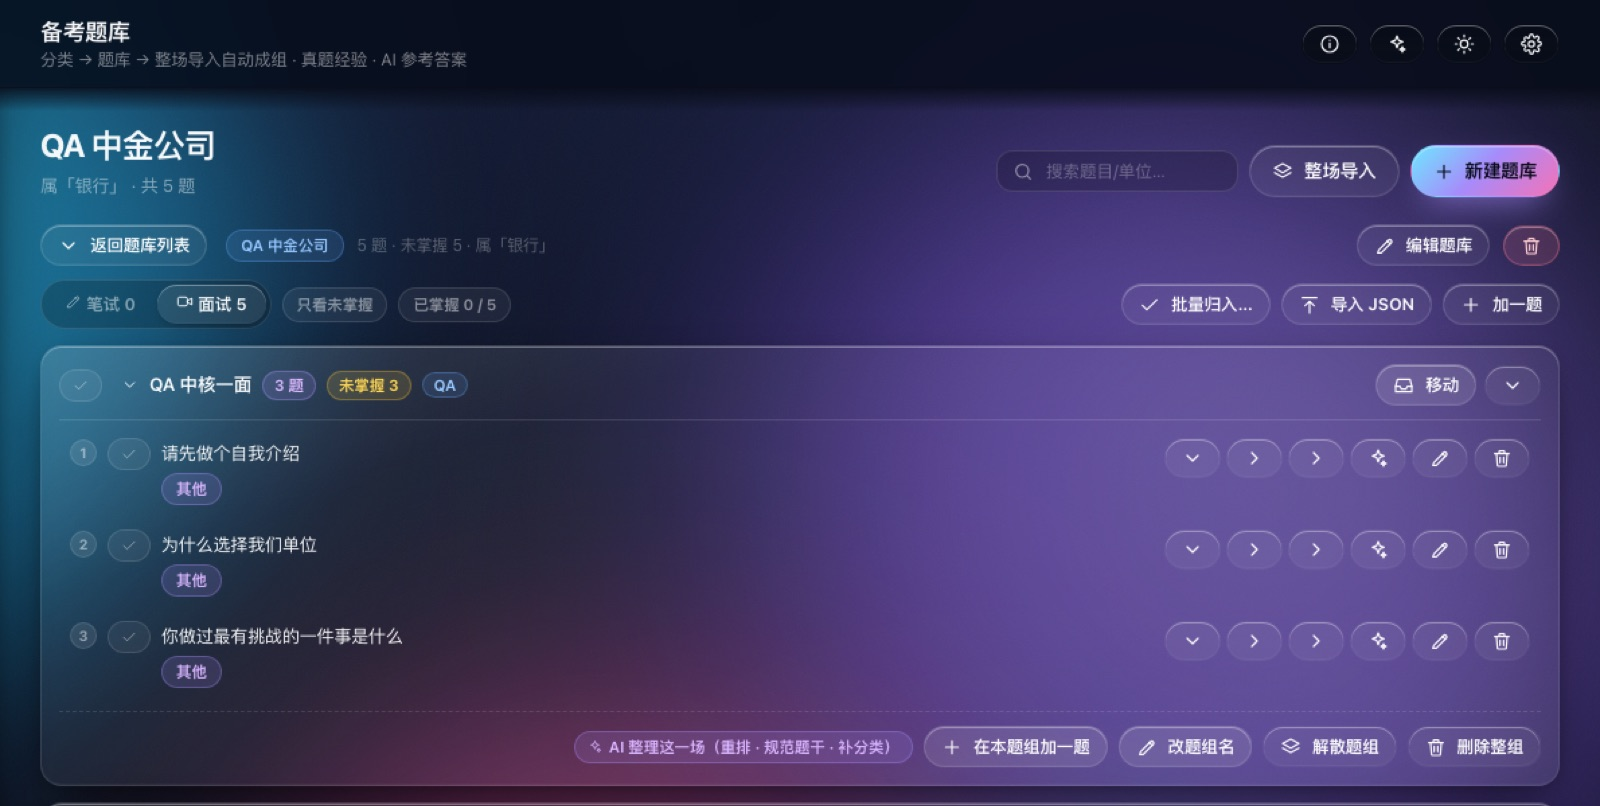
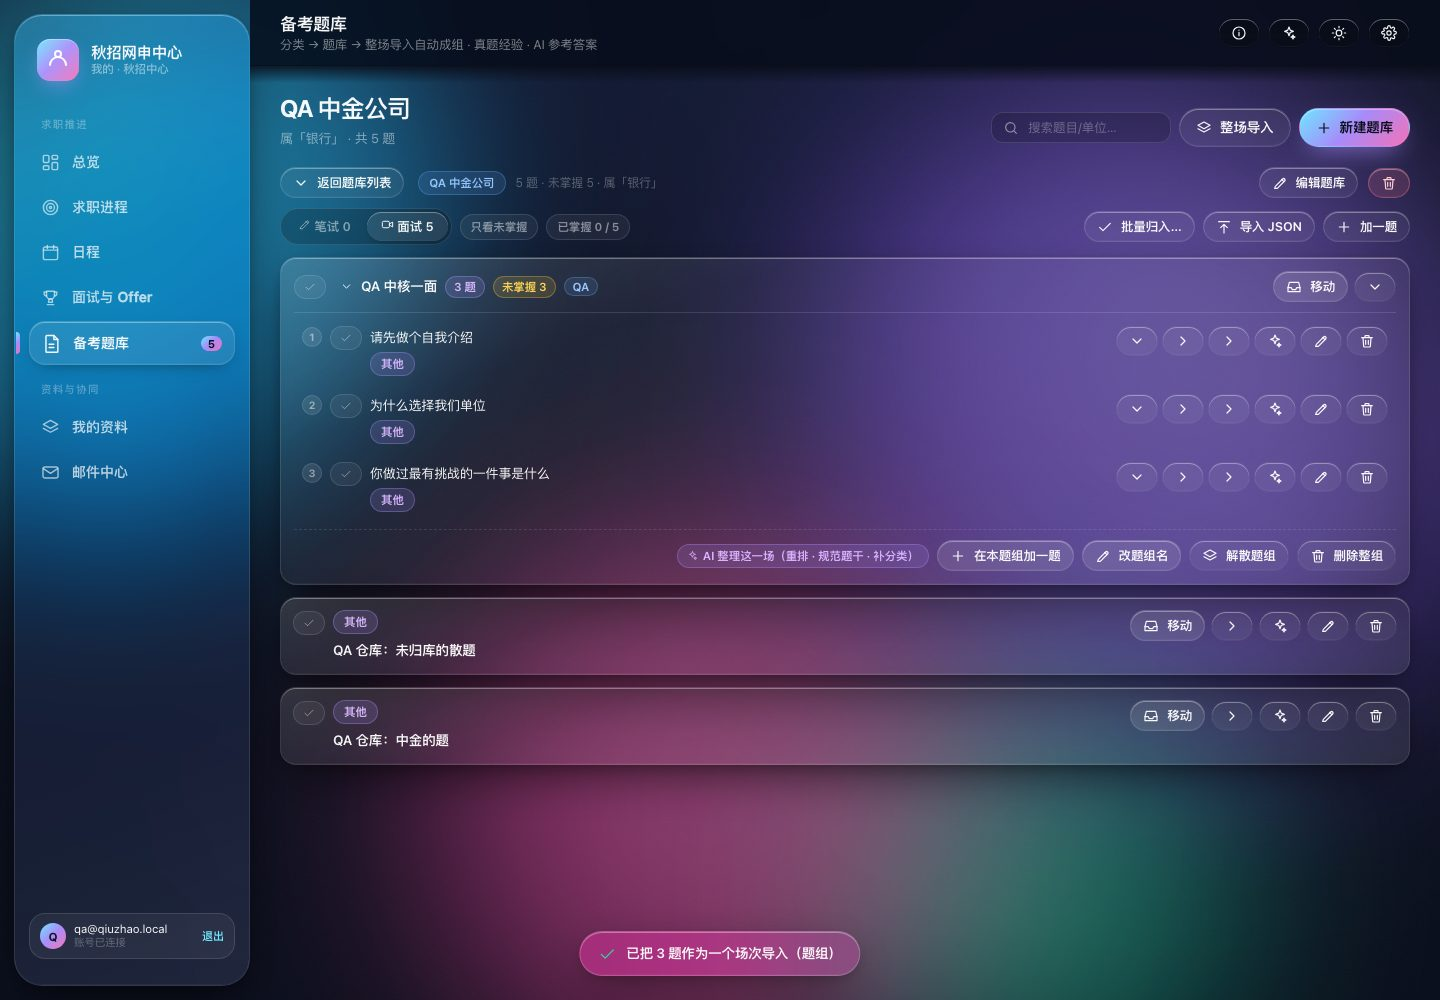
feat(art): 整站使用莫奈画作 —— 首屏 + 四个区块各配一幅
用户指出「整个网站都用上莫奈的画」，此前只有首屏一张，落实不足。
现每个区块配一幅，按画面情绪选，并用画的色温调整该区块观感。

选画（以画面观感为准，不用色相平均值 —— 该算法对多彩高饱和的画会失效，
曾把《Cliff Walk》这类明亮开阔的画误判成冷调）：
- 首屏      《普尔维尔的悬崖漫步》1882：蓝天碧海 + 粉紫野花坡，最明亮开阔
- AI 项目   《睡莲》1906：笔触最密、辨识度最高
- 法律经历 《埃特勒塔海滩与悬崖》1885：暖粉沙滩 + 青绿海水
- 教育荣誉 《干草堆（夏末）》1891：收获意象，暖金黄昏
- 联系      《圣阿德雷斯海滩》1867：开阔通透

修掉的真实缺陷：
1. 区块横幅首版用 21:6（太扁）—— 桥的拱券被压成一条，像裁坏的图；改 16:7。
2. 横幅上方留约 100px 死白（区块自身 padding-top 叠加所致）；已收掉。
3. 换画后展签未同步 —— 首屏还写着旧画《吉维尼附近的塞纳河支流（雾）》，
   而画面已是《普尔维尔的悬崖漫步》，属硬错；已改对。
4. 新画比原画亮得多（大片天蓝 + 白云），原为灰雾调的遮罩不够，
   导航浅色文字与天空打架；已加深文字侧雾层并给右上角补同色系薄云。

同时按用户要求移除「北交所考情作战台」截图（三条理由：紫色系与整站莫奈灰蓝冲突；
原素材裁切失当出现断头句；更根本的是它不构成该项目的证据 —— 考情作战台是
企业招聘信息整理，与「四智能体法律检索工作流」无关）。宁缺勿假。

并修正其余截图的裁切：原用 sips cropOffset 固定值把左侧切掉，
english-desk 只剩「词性/释义/搭配」连单词都看不见；改为整张等比缩放。

删除孤儿素材 bank-lv1.jpg / bank-lv2.jpg。

QA：qa-render、qa-typography 全过；七档视口 320–1920 无横向溢出。

diff --git a/src/styles/components.css b/src/styles/components.css
@@ -209,3 +209,69 @@
 .grid--3 {
   grid-template-columns: repeat(auto-fit, minmax(min(100%, 16rem), 1fr));
 }
+
+/* ============================================================================
+   区块抬头画作（整站莫奈）
+
+   每个区块对应一幅莫奈。它不是背景装饰，而是这一节的「情绪抬头」：
+   横幅式、有展签、有画框，和首屏那幅同一待遇。
+   内容仍在下方可读的纸面上 —— 画承担情绪，纸面承担阅读。
+   ========================================================================= */
+.section__art {
+  position: relative;
+  /* 上边距取消：区块自身已有 padding-top，再加一层会在画上方留出死白
+     （首版留了约 100px 空档，实测可见） */
+  margin: 0 0 clamp(2rem, 4vw, 3.5rem);
+  padding-inline: var(--gutter);
+  max-width: var(--container);
+  margin-inline: auto;
+}
+
+.section__art-img {
+  display: block;
+  width: 100%;
+  /* 横幅比例 16:7：够扁不抢屏，又能看清画面主体。
+     试过 21:6 —— 桥的拱券被压成一条，像裁坏的图，已回退。 */
+  aspect-ratio: 16 / 7;
+  object-fit: cover;
+  object-position: center 46%;
+  /* 内衬白边 = 装裱（与项目截图同一语汇） */
+  padding: clamp(6px, 0.7vw, 12px);
+  background: var(--surface-panel);
+  border: 1px solid var(--divider);
+  box-shadow: var(--shadow-sm);
+}
+
+.section__art-credit {
+  margin-top: var(--space-3);
+  text-align: right;
+  font-size: var(--text-xs);
+  line-height: var(--leading-ui);
+  color: var(--text-tertiary);
+  letter-spacing: var(--tracking-label);
+}
+
+/* 窄屏：横幅比例回到接近方形，否则画会被压成一条纸带 */
+@media (max-width: 48rem) {
+  .section__art-img {
+    aspect-ratio: 3 / 2;
+    object-position: center 40%;
+  }
+}
+
+/* 深色主题：与首屏同一处理 —— 压暗降饱和，让浅色文字与画共存 */
+[data-theme='dark'] .section__art-img {
+  filter: saturate(0.74) brightness(0.62) contrast(1.02);
+}
+
+/* 降低透明度偏好下，画的"玻璃感"无意义，纯图即可 */
+@media (prefers-reduced-transparency: reduce) {
+  .section__art-img {
+    background: var(--bg-elevated);
+  }
+}
+
+/* 打印：画是屏幕语汇，纸面不需要（且大量耗墨） */
+@media print {
+  .section__art { display: none; }
+}

diff --git a/src/components/sections/Hero.tsx b/src/components/sections/Hero.tsx
@@ -3,7 +3,9 @@
  *
  * 设计意图：
  *   首屏用 M1 的语汇 —— **一幅画铺满整屏，内容叠在画上**。
- *   莫奈《吉维尼附近的塞纳河支流（雾）》（1897）本身几乎没有硬边，
+ *   莫奈《普尔维尔的悬崖漫步》（1882）：蓝天白云 + 碧绿海面 + 粉紫野花坡地，
+ *   是全批里最明亮开阔的一张；右侧地平线与人物天然形成视觉落点，
+ *   左侧天空云层平缓，压得住文字。
  *   雾紫到灰蓝是连续过渡，左侧一片深色树影天然就是能压住文字的底，
  *   所以不需要额外加黑遮罩去救，只需一层**同色系的雾**收窄可读区。
  *   往下各区块用 M3 的语汇 —— 内容像被展出的作品（装裱 + 展签式说明）。
@@ -139,7 +141,7 @@ export function Hero() {
         <div ref={gridRef} className="hero__art">
           <img
             className="hero__art-img hero__art-img--wide"
-            src={assetUrl('art/hero-mist.jpg')}
+            src={assetUrl('art/hero-cliff.jpg')}
             alt=""
             width={2000}
             height={1941}
@@ -148,7 +150,7 @@ export function Hero() {
           />
           <img
             className="hero__art-img hero__art-img--narrow"
-            src={assetUrl('art/hero-mist-mobile.jpg')}
+            src={assetUrl('art/hero-cliff-mobile.jpg')}
             alt=""
             width={1400}
             height={1358}
@@ -266,7 +268,7 @@ export function Hero() {
           它同时解决了一个真实问题 —— 首屏右下角原先是一大片死白。
           用的是美术馆展签的写法：作品名 + 作者 + 年份，字号小于正文、颜色更淡。 */}
       <p className="container hero__credit">
-        克劳德·莫奈《吉维尼附近的塞纳河支流（雾）》，1897 年
+        克劳德·莫奈《普尔维尔的悬崖漫步》，1882 年
       </p>
 
       {/* 克制的向下滚动提示：Hero 与下一区块之间 */}

diff --git a/src/components/ui/Kit.tsx b/src/components/ui/Kit.tsx
@@ -6,6 +6,7 @@
  * 任何区块组件都应该复用这里的原语，不要各自造按钮和卡片。
  */
 import type { ReactNode, ButtonHTMLAttributes, AnchorHTMLAttributes } from 'react'
+import { assetUrl } from '../../data/content'
 import { useReveal } from '../../lib/useReveal'
 import { usePointerGlow } from '../../lib/usePointerGlow'
 
@@ -44,6 +45,7 @@ export function Section({
   label,
   title,
   lead,
+  art,
   children,
   className = '',
 }: {
@@ -53,11 +55,22 @@ export function Section({
   title: string
   /** 导语，一到两句 */
   lead?: string
+  /** 该区块的莫奈画作（相对 public 的路径，经 assetUrl 处理）+ 展签 */
+  art?: { src: string; credit: string }
   children: ReactNode
   className?: string
 }) {
   return (
     <section id={id} className={`section ${className}`} aria-labelledby={`${id}-title`}>
+      {art ? (
+        /* 区块抬头画作：整站每个区块都对应一幅莫奈。
+           画不遮内容 —— 它是一条横幅，承担「这一节是什么情绪」，
+           下方仍回到可读的纸面。 */
+        <figure className="section__art">
+          <img className="section__art-img" src={assetUrl(art.src)} alt="" loading="lazy" decoding="async" />
+          <figcaption className="section__art-credit">{art.credit}</figcaption>
+        </figure>
+      ) : null}
       <div className="container">
         <Reveal as="header" className="section__head">
           <p className="label">{label}</p>

diff --git a/src/components/sections/Contact.tsx b/src/components/sections/Contact.tsx
@@ -7,7 +7,7 @@
  *
  * 注意：公开页只在 PROFILE.email —— 不放电话号码（用户明确要求）。
  */
-import { PROFILE } from '../../data/content'
+import { PROFILE, assetUrl } from '../../data/content'
 import { Reveal, LinkButton, PanelCard } from '../ui/Kit'
 
 const MAILTO = `mailto:${PROFILE.email}?subject=${encodeURIComponent(
@@ -17,6 +17,16 @@ const MAILTO = `mailto:${PROFILE.email}?subject=${encodeURIComponent(
 export function Contact() {
   return (
     <section id="contact" className="section contact" aria-labelledby="contact-title">
+      <figure className="section__art">
+        <img
+          className="section__art-img"
+          src={assetUrl('art/contact-beach.jpg')}
+          alt=""
+          loading="lazy"
+          decoding="async"
+        />
+        <figcaption className="section__art-credit">克劳德·莫奈《圣阿德雷斯海滩》1867 年</figcaption>
+      </figure>
       <div className="container">
         <Reveal className="contact__panel">
           <PanelCard radius="xl" className="contact__card">

diff --git a/src/data/content.ts b/src/data/content.ts
@@ -126,11 +126,12 @@ export const PROJECTS: Project[] = [
       { value: '4', label: '段逐一过质检' },
     ],
     tech: ['Claude Code', 'Codex', '多智能体编排', '结构化消息协议', 'Prompt 工程'],
-    shot: {
-      src: 'shots/bse-desk.jpg',
-      caption:
-        '以「北交所法律岗」为例的考情作战台：把官方招聘信息结构化，并把岗位职责逐条映射到命题考点。',
-    },
+    // 此卡原配「北交所考情作战台」截图，已移除。三条理由：
+    // ① 该图是紫色系，与整站莫奈的灰蓝调性直接冲突；
+    // ② 原素材裁切失当（左侧被切，出现「等交易所」「业／金融基础设施」断头句）；
+    // ③ 更根本的是它不构成这个项目的证据 —— 考情作战台是企业招聘信息整理，
+    //    与「四智能体法律检索工作流」无关，放在这里只会稀释说服力。
+    // 宁缺勿假：没有对得上的真实截图，就不放截图。
     featured: 1,
   },
   {

diff --git a/src/components/sections/Journey.tsx b/src/components/sections/Journey.tsx
@@ -260,6 +260,10 @@ export function Journey() {
       <Section
         id="experience"
         label="法律经历"
+        art={{
+          src: 'art/exp-etretat.jpg',
+          credit: '克劳德·莫奈《埃特勒塔海滩与悬崖》1885 年',
+        }}
         title="在红圈与精品所，把检索和文书做成可复核的产出"
         lead="两段实习覆盖商事争议解决与非诉 IPO：一端是监管规则与案例的穷尽检索，另一端是尽调、问询与申报材料的全流程执行。"
       >
@@ -291,6 +295,10 @@ export function Journey() {
       <Section
         id="education"
         label="教育荣誉"
+        art={{
+          src: 'art/edu-hay.jpg',
+          credit: '克劳德·莫奈《干草堆（夏末）》1891 年',
+        }}
         title="从法学学士到法律硕士，名次与奖学金是同一件事的证据"
         lead="本科与硕士都在北京大学法学院，两段学业的名次口径一致，可横向比较。"
       >

diff --git a/src/styles/hero.css b/src/styles/hero.css
@@ -650,3 +650,23 @@
 [data-theme='dark'] .hero__spine-line {
   background: color-mix(in srgb, var(--divider-strong) 78%, transparent);
 }
+
+/* ---- 换画后的适配：从"灰雾"换成"明亮的蓝天碧海" ----
+   问题：新画整体比原画亮得多（大片天蓝 + 白云），原来为灰雾调好的遮罩不够了 ——
+   实测导航与首屏右侧的浅色文字开始和天空打架。
+   做法：把文字侧的雾加深一档，同时在右上角补一层同色系的薄云，
+   让导航落在"云"上而不是直接压在天上。 */
+.hero__art::after {
+  content: '';
+  position: absolute;
+  inset: 0;
+  pointer-events: none;
+  z-index: 1;
+  /* 左上给文字，右上给导航 —— 两个角落各自加深一点 */
+  background:
+    radial-gradient(60% 46% at 88% 4%,
+      color-mix(in srgb, var(--bg-base) 34%, transparent), transparent 72%),
+    linear-gradient(180deg,
+      color-mix(in srgb, var(--bg-base) 22%, transparent) 0%,
+      transparent 26%);
+}

diff --git a/src/components/sections/Work.tsx b/src/components/sections/Work.tsx
@@ -292,6 +292,10 @@ export function Work() {
     <Section
       id="work"
       label="AI 项目"
+      art={{
+        src: 'art/work-lilies.jpg',
+        credit: '克劳德·莫奈《睡莲》1906 年',
+      }}
       title="法律人的 AI 工程实践"
       lead="五个项目全部独立完成并已上线。它们在说同一件事：把一条真实的工作流拆开、重建成可复用、可校验、可自动化运行的系统。"
       className="work"
